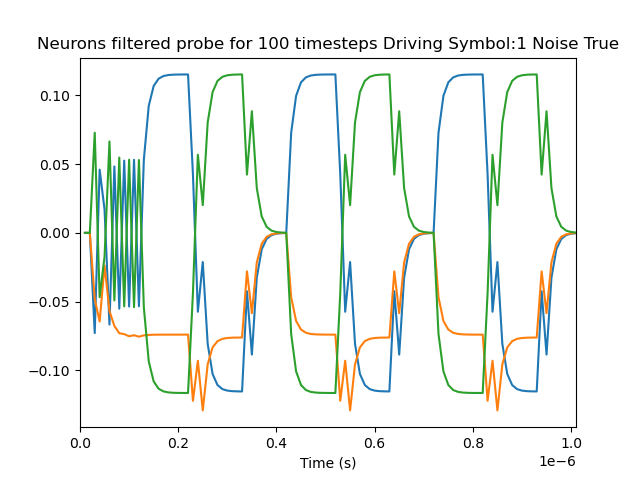
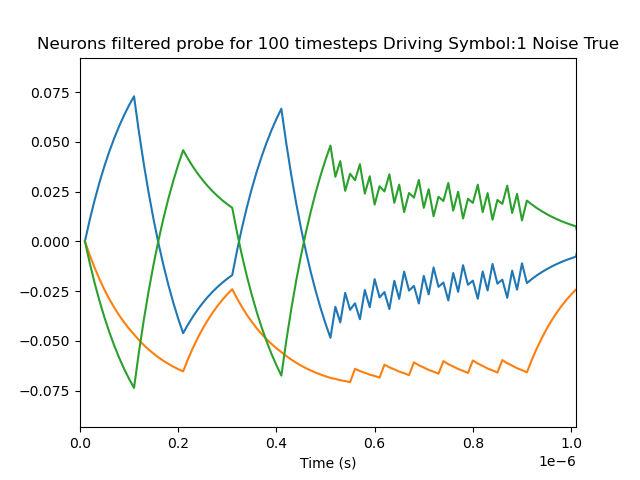
updated 3 layers

diff --git a/three-layers.py b/three-layers.py
@@ -91,7 +91,12 @@ with model:
             # neurons.
             max_rates=Uniform(500e+6, 500e+6),  # Set the maximum firing rate of the neuron 500Mhz
             # Set the neuron's firing rate to increase for 2 combinations of 3 channel input.
-            encoders=[[1, -1, -1], [-1, -1, 1]],
+            #encoders=[[1, -1, -1], [-1, -1, 1]],
+            #encoders=[[1, -1, -1], [-1, 1, -1]],
+            #encoders=[[1, -1, 1], [-1, 1, 1]],
+            #encoders=[[1, -1, -1], [1, -1, -1]],
+            #encoders=[[1, 1, 1], [-1, -1, -1]],
+            encoders=[[-1, -1, 1], [1, -1, -1]],
         )
 
 driving_symbol = "0"
@@ -105,7 +110,7 @@ with model:
 
 with model:
     nengo.Connection(input_signal, neurons, synapse=None)
-    nengo.Connection(neurons, neuronsL2, synapse=2e-8)
+    nengo.Connection(neurons, neuronsL2, synapse=None)
     nengo.Connection(neuronsL2,neuronsL3,synapse=None)
 
 
@@ -116,10 +121,10 @@ with model:
     #voltage = nengo.Probe(neurons.neurons, 'voltage')
     voltageL3 = nengo.Probe(neuronsL3.neurons, 'voltage')
     # Spikes filtered by a 10ms post-synaptic filter
-    filteredL3 = nengo.Probe(neuronsL3, synapse=1e-8)
+    filteredL3 = nengo.Probe(neuronsL3, synapse=1e-7)
     
 with nengo.Simulator(model, dt=1e-8) as sim:  # Create a simulator
-    sim.run(1000000e-9)  # Run it for 10k nanosecond
+    sim.run(10000e-9)  # Run it for 10k nanosecond
     
 t = sim.trange()
 
